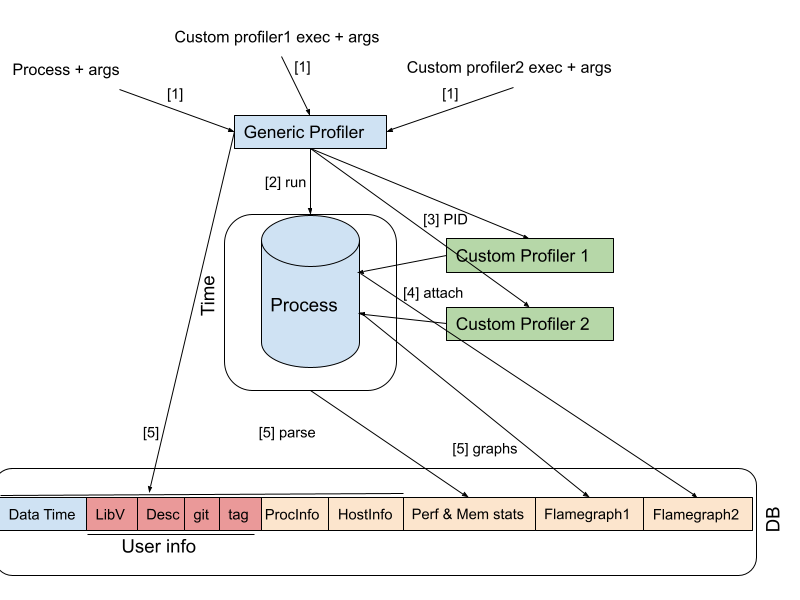
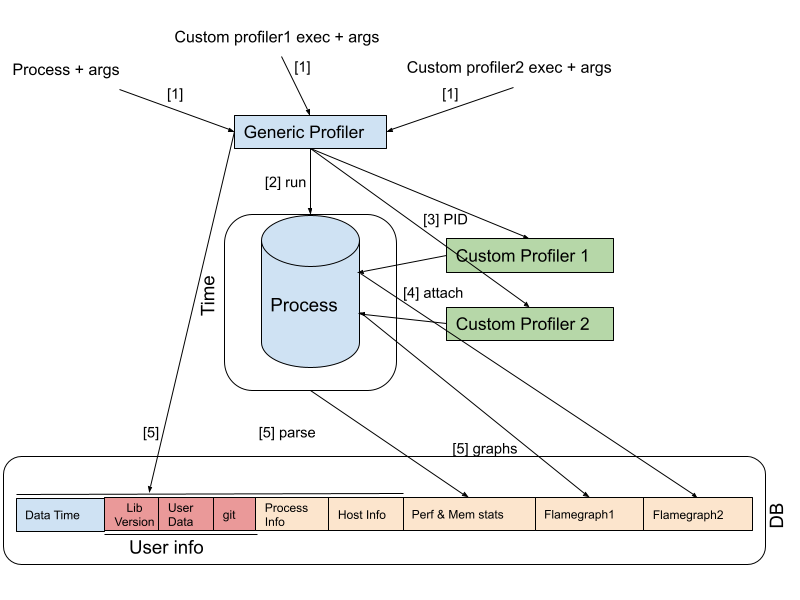
Apply the review comments for profiler RFC

Changed region(s): [[0.0, 0.78, 1.0, 0.96], [0.6875, 0.84, 0.7812, 0.87], [0.9375, 0.78, 0.9688, 0.81]]

diff --git a/rfcs/profiler.md b/rfcs/profiler.md
@@ -24,8 +24,9 @@ The goal of this process is to provide a multi-layer profiler (consisting of a g
 
 - Our solution should be able to provide timing metrics for a full run.
 - Our solution should be able to provide memory metrics for a full run.
-- Our solution should be able to be incorporated into a release pipeline to protect against / debug regressions in code
-
+- Our solution should be able to be incorporated into a release pipeline to protect against / debug regressions in code.
+- Our solution must support querying and/or reporting per-process stats.
+- In addition to perf/mem metrics, our solution must capture env/context (such as host info) for the run as well. 
 **Advanced requirements:**
 
 - Our solution should be able to provide a breakdown of how time was spent in different components / queries
@@ -47,15 +48,23 @@ Given the complexity of the system and layers of software involved, we are takin
 
 ## Generic Profiler
 
-To address the mentioned basic requirements, at the top level, we use a generic and simple profiler which only tracks end-to-end execution time and memory metrics (peak memory, page faults, etc.) of the executed queries. This profiler uses a commonly available tool such as **_time_** to keep track of this high level information across days and releases in a small database (the early version can be using just the filesystem (key will be the filename and value will be the file content) and for then next phase, we can use [SqliteDict](https://pythonhosted.org/sqlite_object/sqlite_dict.html) K/V database, TileDB or DynamoDB as other alternatives) across different platforms. As the profiler runs the application process, a new record will be generated and stored. The record associated with each run has the following schema:
+To address the mentioned basic requirements, at the top level, we use a generic and simple profiler which only tracks end-to-end execution time and memory metrics (peak memory, page faults, etc.) of the executed queries. 
+
+This profiler uses a commonly available tool such as **_time_** to keep track of this high level information across days and releases in a small database. 
+The early version can be using just the filesystem where key will be process (folder) the date/time (file in that folder) and value will be the file content. 
+And we can use GitHub to make it shared and versioned. 
+
+In the future, we can use [SqliteDict](https://pythonhosted.org/sqlite_object/sqlite_dict.html) K/V database, TileDB or DynamoDB as other alternatives) across different platforms. 
+
+As the profiler runs the application process, a new record will be generated and stored. The record associated with each run has the following schema:
 
 - **Key:**
+  - _Process Information (application and its arguments)_
   - _Date_
   - _Time_
-  - _Process Information (application and its arguments)_
 - **Value:**
   - _Host information_
-  - _User Defined MD_
+  - _User Defined data_
     - _Libraries version_
     - _Git commit SHA1_
     - _Description_
@@ -66,7 +75,7 @@ To address the mentioned basic requirements, at the top level, we use a generic 
   - _Custom Profiler 1 output_
   - _Custom Profiler 2 output_
 
-As can be seen, the key is a combination of **_Date_**, **_Time_** and **_Process Info_**. The idea is to make it easy to query across time for a given process. The value consists of executed process detail info, library versions (releases and PR perhaps too). Additionally, the user can add platform information (like Single Cell library versions) and git **_SHA1_** and a _description_ for the benchmark. **_Tag_** is a value linking multiple benchmarks (a suite of runs). Finally, the profile information also includes time and memory metrics. Additionally, it includes the output info of custom profilers. Custom profilers will be discussed in the next section.
+As can be seen, the key is a combination of **_Date_**, **_Time_** and **_Process Info_**. The idea is to make it easy to query across time for a given process. The value consists of executed process detail info, library versions (releases and PR perhaps too). Additionally, the user can add platform information (like SOMA implementations) and git **_SHA1_** and a _description_ for the benchmark. **_Tag_** is a value linking multiple benchmarks (a suite of runs). Finally, the profile information also includes time and memory metrics. Additionally, it includes the output info of custom profilers. Custom profilers will be discussed in the next section.
 
 There are multiple benefits to have this top-level profiler:
 
@@ -89,7 +98,7 @@ We decided to use [flamegraph](https://github.com/brendangregg/FlameGraph) as th
 
 ### Benefits
 
-- A major benefit of this design is that the profilers (both generic and custom ones) are not necessarily targeted toward single cell applications and can be used for any services across CZI.
+- A major benefit of this design is that the profilers (both generic and custom ones) are not necessarily targeted toward single cell applications and can be used for any services.
 - Another benefit of this design is the fact that the generic profiler can be implemented and deployed in a reasonable amount of time opening the door for low-overhead perf/mem monitoring.
 - The third benefit of the design is that it can be easily extended by adding more custom profilers for different languages and software stack.
 
@@ -109,11 +118,12 @@ As shown in the figure, the following steps take place as a part of the process 
 
 ## Metrics & Alerts
 
-A metric for performance and memory regression should be designed and implemented. The use of custom profilers can be conditional on detection of regression. The idea being once a regression is detected, we rerun the process with custom profilers to avoid slowing down normal execution.
+A metric for performance and memory regression should be designed and implemented which supports profiling processes and also querying of profile stats.
+The use of custom profilers can be conditional on detection of regression. This tool supports querying its data for investigating regressions or hotspots.
 
 ## Security & Data Privacy
 
-The central DB can pose a risk if that gets compromised as it reveals the history of all of the Single Cell Dataset runs.
+The central DB can pose a risk if that gets compromised as it reveals the history of all the profiling runs.
 
 ## Estimated Cost
 
@@ -126,14 +136,6 @@ This design does not require adding new machines (nodes). It only relies on inst
 - We need to make sure all nodes across our controlled environment for profilers have **_time_** utility. Also need to figure out the right flags for them to extract the memory in addition to performance metrics.
 - A way to have a central DB (Filesystem only or **_SQLiteDict_**) across the environments (EC2 and developer machines).
 - As more custom profilers are added to the system, they must be tested and added to the controlled environment gradually.
-
-## Deployment Steps
-
-- **Internal performance tracking**
-  - We start the generic profiler on a small controlled environment (like github tests and regular performance runs before the releases) a shared DB
-- **~~External performance tracking~~**
-  - ~~And after test the profiler is fully tested, we will share the profiler with the customers so they can track their potential performance issues~~
-- ~~Custom profilers go through the same internal-external cycle~~
 
 # References
 
